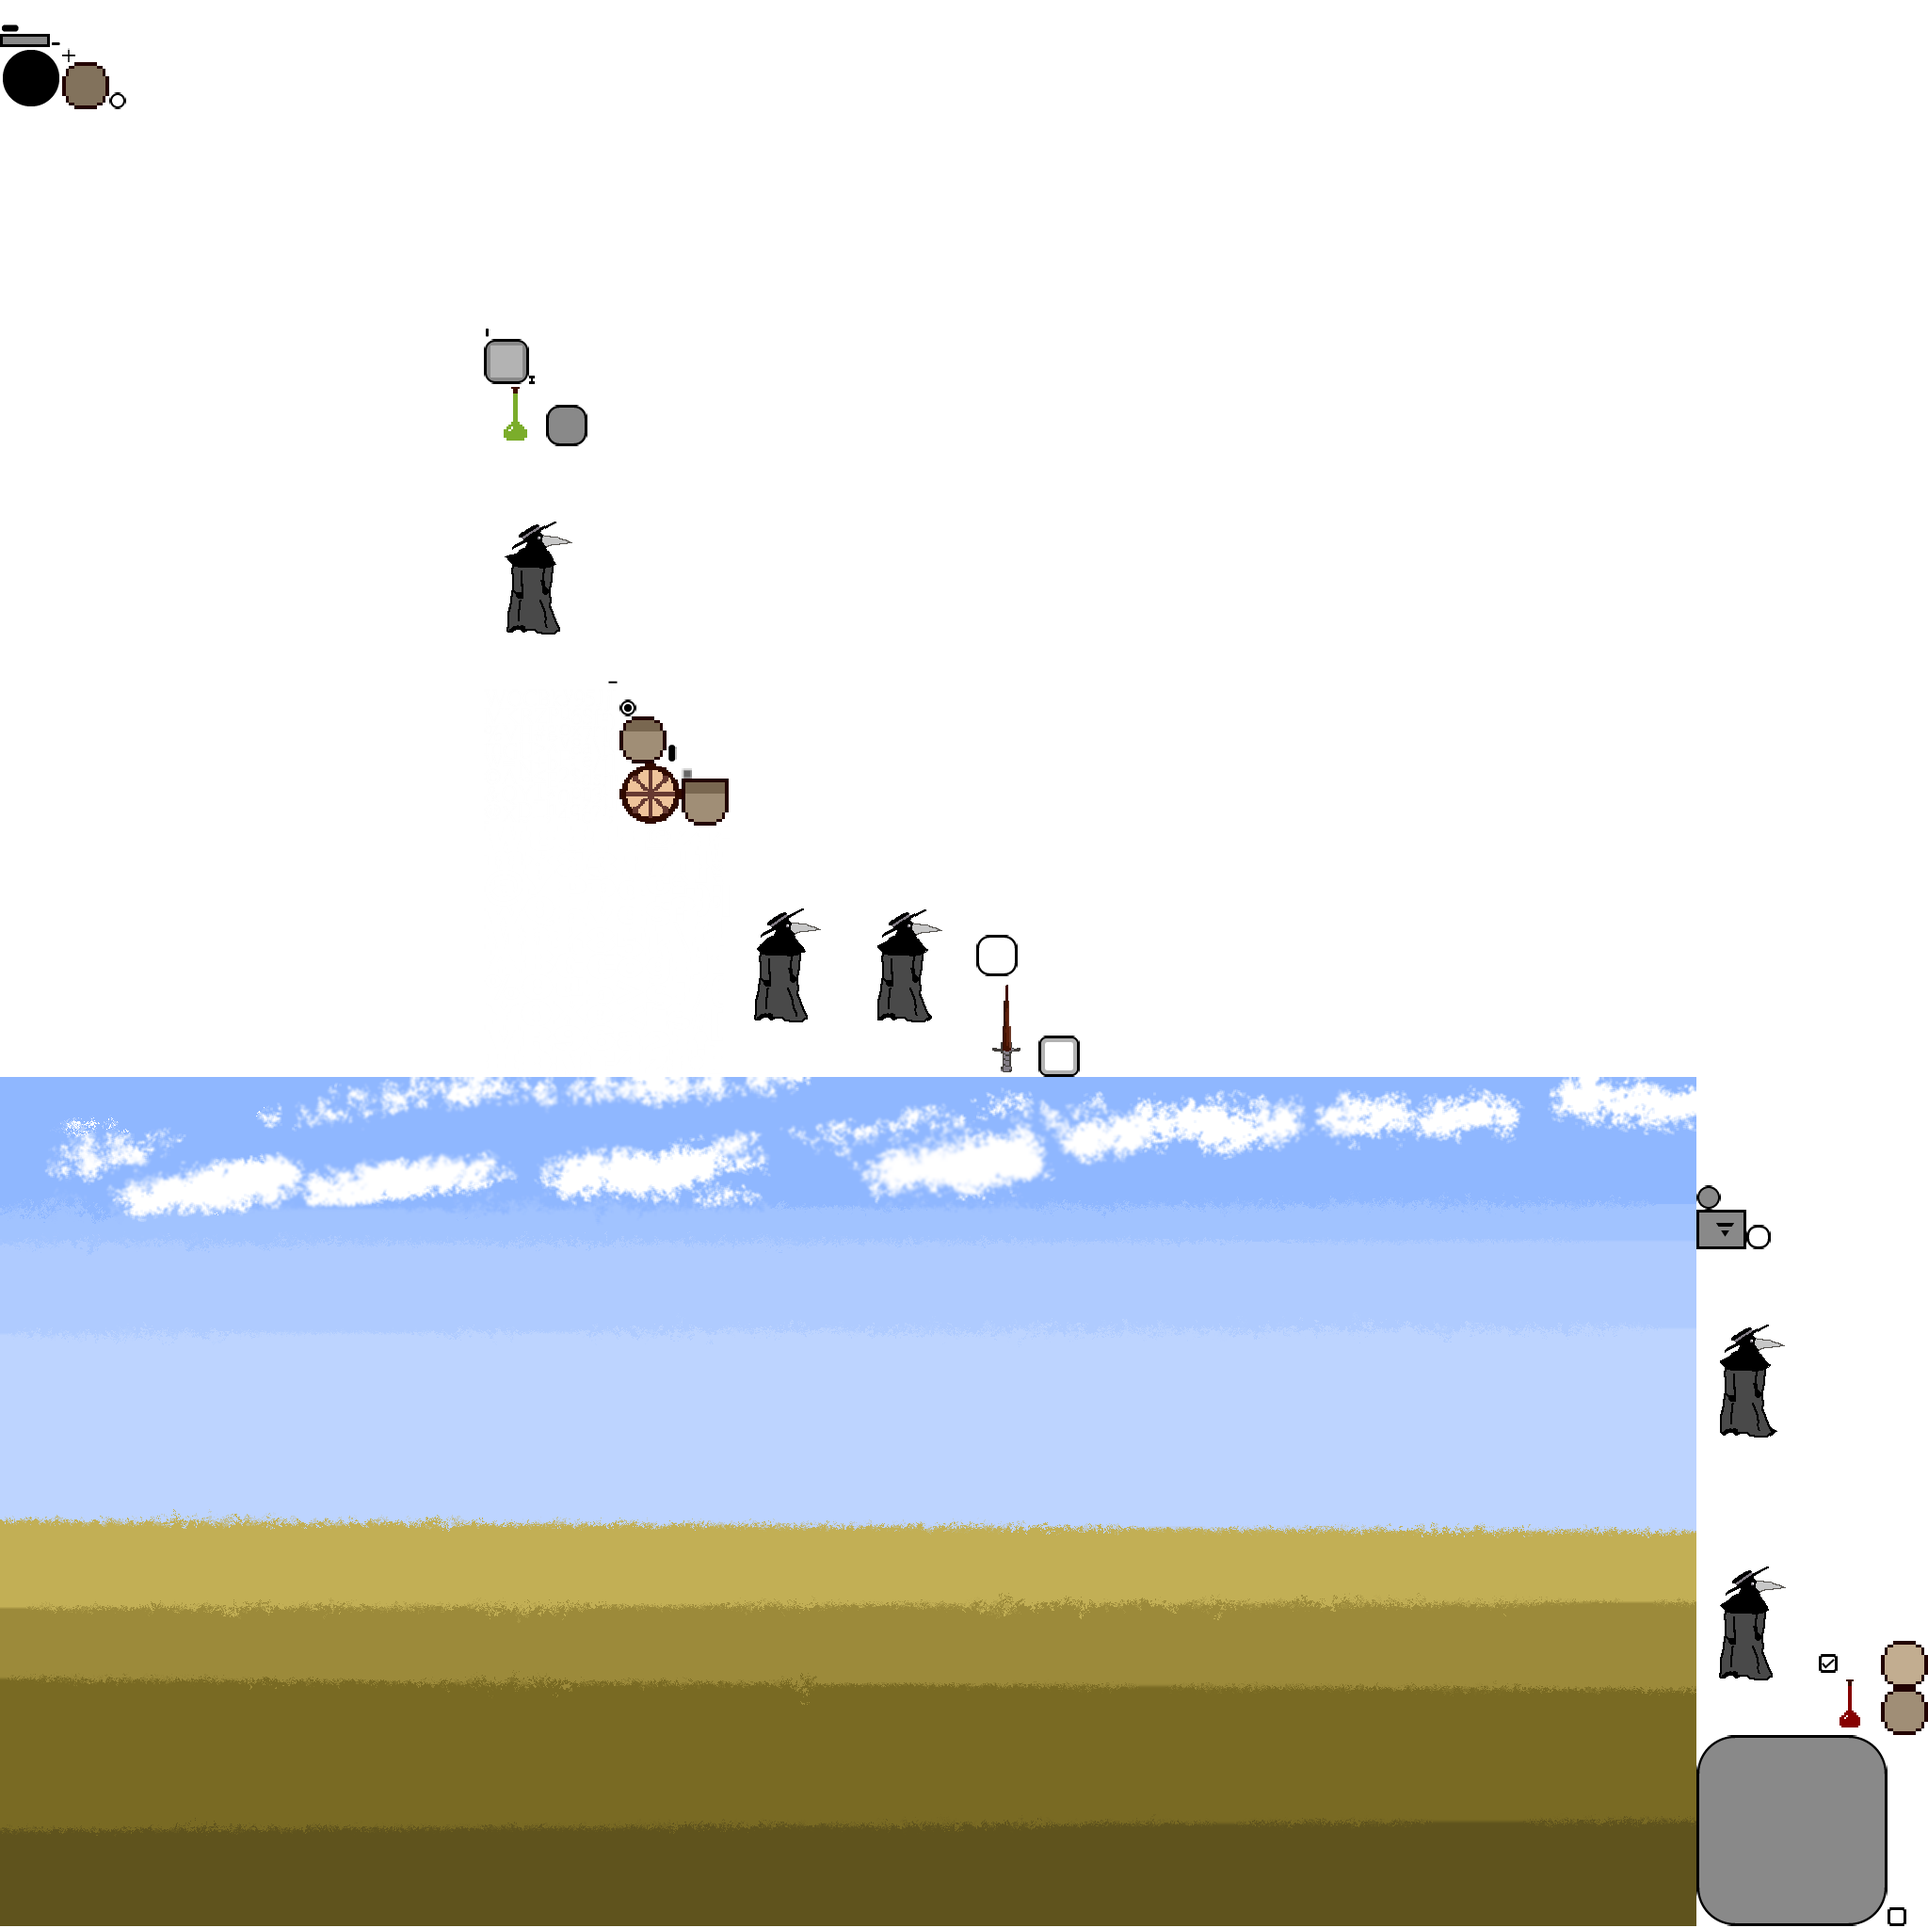
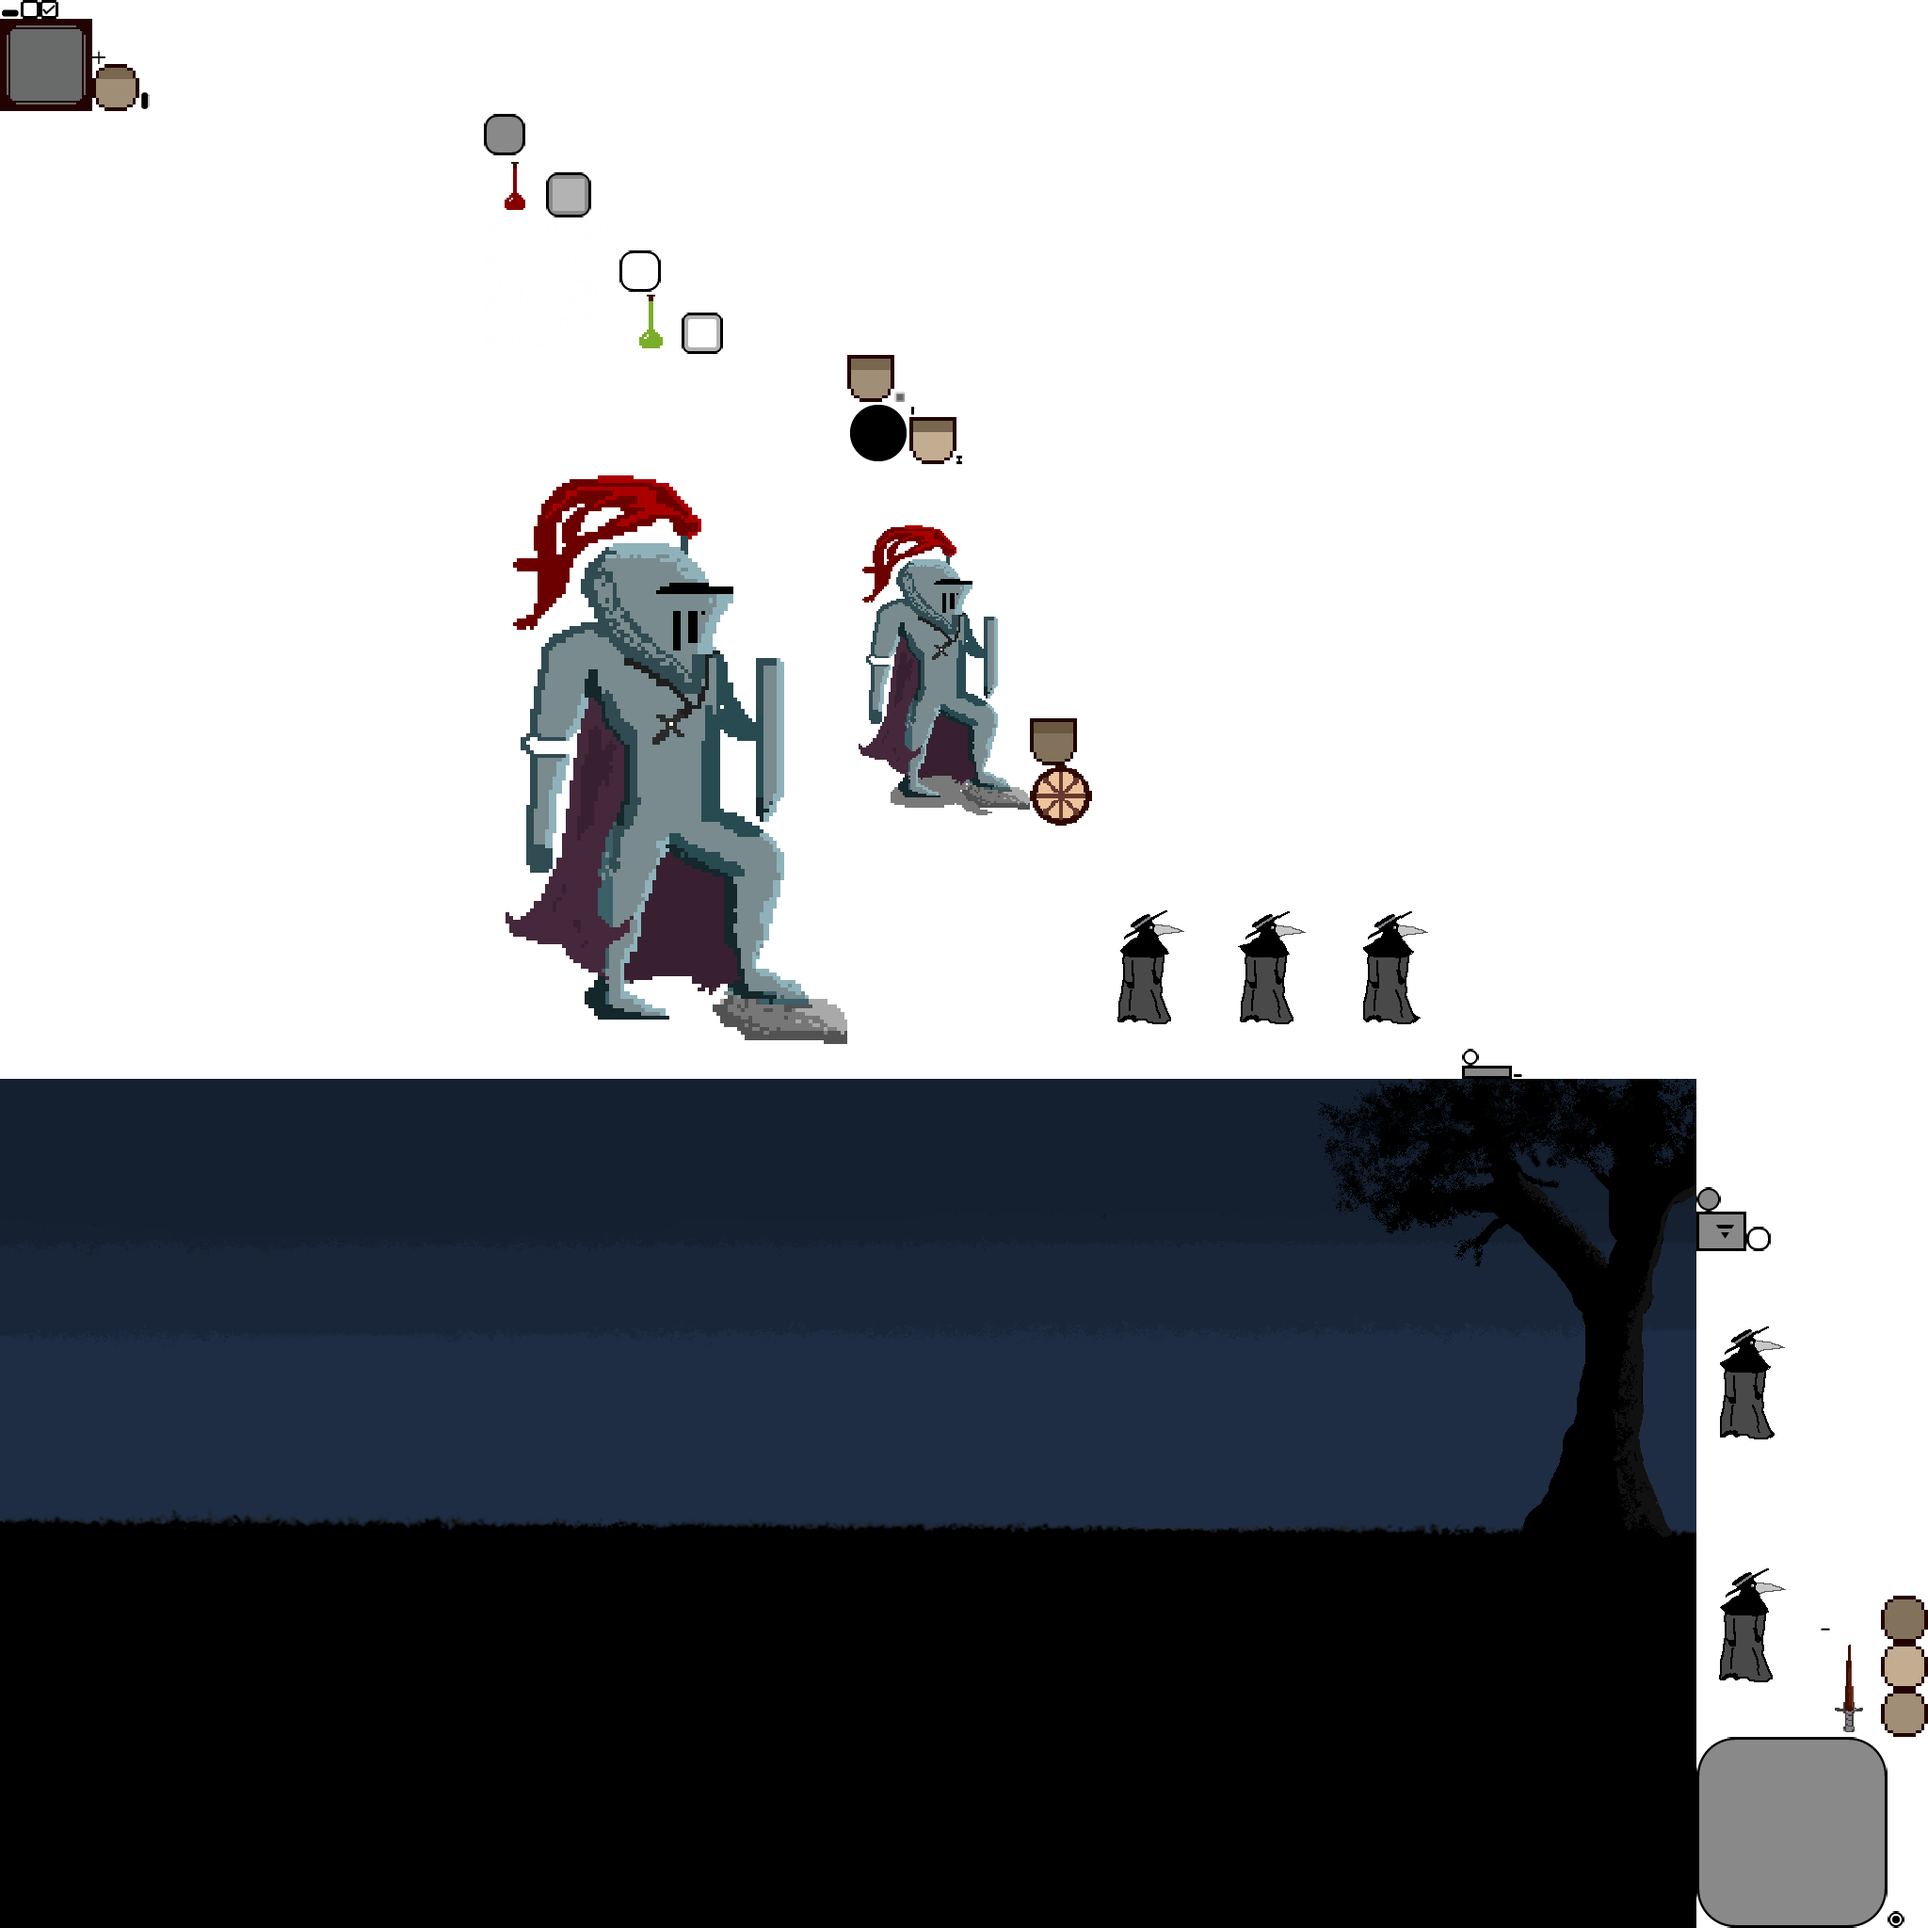
adding shit

diff --git a/core/src/com/mygdx/game/screens/NewRunScreen.java b/core/src/com/mygdx/game/screens/NewRunScreen.java
@@ -6,24 +6,26 @@ import com.badlogic.gdx.graphics.g2d.BitmapFont;
 import com.badlogic.gdx.scenes.scene2d.InputEvent;
 import com.badlogic.gdx.scenes.scene2d.Stage;
 import com.badlogic.gdx.scenes.scene2d.Touchable;
-import com.badlogic.gdx.scenes.scene2d.ui.Label;
-import com.badlogic.gdx.scenes.scene2d.ui.Skin;
-import com.badlogic.gdx.scenes.scene2d.ui.Table;
-import com.badlogic.gdx.scenes.scene2d.ui.TextButton;
+import com.badlogic.gdx.scenes.scene2d.ui.*;
 import com.badlogic.gdx.scenes.scene2d.utils.ClickListener;
+import com.badlogic.gdx.scenes.scene2d.utils.TextureRegionDrawable;
 import com.badlogic.gdx.utils.Align;
 import com.badlogic.gdx.utils.viewport.ScreenViewport;
 import com.mygdx.game.Assets;
 import com.mygdx.game.OverthrowScreenAdapter;
+import com.mygdx.game.screens.encounterscreens.CharacterSplash;
 import com.mygdx.game.state.Character;
 import com.mygdx.game.state.NewGameGenerator;
 
 import java.util.stream.Stream;
 
 public class NewRunScreen extends OverthrowScreenAdapter {
+
     @Override
     public void show() {
+        TextureRegionDrawable trd = new TextureRegionDrawable(Assets.skin().getRegion("splash"));
         Table table = new Table();
+        table.setBackground(trd);
         table.bottom().left();
         table.padLeft(70);
         table.padBottom(70);
@@ -50,10 +52,12 @@ public class NewRunScreen extends OverthrowScreenAdapter {
             @Override
             public void clicked(InputEvent event, float x, float y) {
                 System.out.println("Knight has been selected.");
-                NewGameGenerator.generateNewGame(Character.CharacterType.KNIGHT);
-                ((Game) Gdx.app.getApplicationListener()).setScreen(
-                        new GameStateScreen( )
-                );
+               CharacterSplash splash = new CharacterSplash(Character.CharacterType.KNIGHT);
+                stage.addActor(splash);
+                stage.addActor(proceedTable());
+
+               // NewGameGenerator.generateNewGame(Character.CharacterType.KNIGHT);
+                //((Game) Gdx.app.getApplicationListener()).setScreen(new GameStateScreen());
             }
         });
         addButton(characters, "Inventor",new ClickListener(){
@@ -77,7 +81,18 @@ public class NewRunScreen extends OverthrowScreenAdapter {
             }
         });
         addBackToMainMenu(characters);
+    }
 
+    private Table proceedTable(){
+        Table proceedTable = new Table();
+        proceedTable.bottom().right();
+        proceedTable.padRight(70);
+        proceedTable.padBottom(70);
+        proceedTable.setFillParent(true);
+        ProceedButton button = new ProceedButton();
+        button.getLabel().setAlignment(Align.left);
+        proceedTable.add(button);
+        return proceedTable;
     }
 
     private void addBackToMainMenu(Table table){

diff --git a/core/src/com/mygdx/game/screens/encounterscreens/InGameEncounterScreen.java b/core/src/com/mygdx/game/screens/encounterscreens/InGameEncounterScreen.java
@@ -42,7 +42,6 @@ public abstract class InGameEncounterScreen extends OverthrowScreenAdapter {
         entireScreen.setFillParent(true);
         populateTopBar(entireScreen);
         populateTeamAndEncounter(entireScreen);
-      //  populateGearAndInventory(entireScreen);
         stage.addActor(entireScreen);
 
 
@@ -116,12 +115,13 @@ public abstract class InGameEncounterScreen extends OverthrowScreenAdapter {
         Table characterPanel = new Table(Assets.skin());
         characterPanel.add(new Label(character.name() + "        hp: " + character.hp(), Assets.skin())).expandX();
         characterPanel.row();
-        characterPanel.add(new Image(Assets.skin().getRegion("plague_doctor1"))).expand();
+        characterPanel.add(new Image(Assets.skin().getRegion(imageFrom(character.characterType())))).expand();
         characterPanel.addListener(new HoverClickListener(stage, new HoverBox()));
         characterPanel.row();
         Table abilityPanel = new Table();
         abilityPanel.defaults().space(10F);
-        abilityPanel.add(new TextButton("Gear", Assets.skin())).expandX();
+       // abilityPanel.add(new TextButton("Gear", Assets.skin())).expandX();
+        abilityPanel.add(new AbilityPortraitImageButton());
         abilityPanel.add(new TextButton("AB1", Assets.skin())).expandX();
         abilityPanel.add(new TextButton("AB2", Assets.skin())).expandX();
         abilityPanel.add(new TextButton("ULT", Assets.skin())).expandX();
@@ -134,6 +134,16 @@ public abstract class InGameEncounterScreen extends OverthrowScreenAdapter {
         characterPanel.add(weaponAbilityPanel).padBottom(10).expand();
         characterPanel.defaults().expandX();
         return characterPanel;
+    }
+    
+    private String imageFrom(Character.CharacterType characterType){
+        switch(characterType){
+            case PLAGUE_DOCTOR -> { return "plauge_doctor1";}
+            case LEPER -> { return "plauge_doctor1";}
+            case INVENTOR -> { return "plauge_doctor1";}
+            case KNIGHT -> { return "knight";}
+            default -> throw new IllegalStateException("Unexpected value: " + characterType);
+        }
     }
 
     private Table emptyCharacterPanel(){

diff --git a/core/src/com/mygdx/game/character/knight/KnightGenerator.java b/core/src/com/mygdx/game/character/knight/KnightGenerator.java
@@ -1,0 +1,30 @@
+package com.mygdx.game.character.knight;
+
+import com.mygdx.game.character.abilities.Ability;
+import com.mygdx.game.character.gear.EquippedGear;
+import com.mygdx.game.character.plaguedoctor.Bloodlet;
+import com.mygdx.game.character.plaguedoctor.Miasma;
+import com.mygdx.game.character.plaguedoctor.TossConcoction;
+import com.mygdx.game.state.Character;
+
+import java.util.ArrayList;
+
+public class KnightGenerator {
+    private static final int STARTING_HP = 100;
+    private static final Ability STARTING_BASIC_ABILITY_1 = new TossConcoction();
+    private static final Ability STARTING_BASIC_ABILITY_2 = new Bloodlet();
+    private static final Ability STARTING_ULT_ABILITY = new Miasma();
+
+    public static Character generateStartingPlagueDoctor(){
+        return new Character(
+                "Knight",
+                Character.CharacterType.KNIGHT,
+                STARTING_HP,
+                new EquippedGear(),
+                STARTING_BASIC_ABILITY_1,
+                STARTING_BASIC_ABILITY_2,
+                STARTING_ULT_ABILITY,
+                new ArrayList<>()
+        );
+    }
+}

diff --git a/core/src/com/mygdx/game/state/Character.java b/core/src/com/mygdx/game/state/Character.java
@@ -3,6 +3,7 @@ package com.mygdx.game.state;
 import com.mygdx.game.character.abilities.Ability;
 import com.mygdx.game.character.buff.Buff;
 import com.mygdx.game.character.gear.EquippedGear;
+import com.mygdx.game.character.knight.KnightGenerator;
 import com.mygdx.game.character.plaguedoctor.PlagueDoctorGenerator;
 
 import java.util.List;
@@ -26,7 +27,7 @@ public record Character(
             case PLAGUE_DOCTOR -> { return PlagueDoctorGenerator.generateStartingPlagueDoctor(); }
             case LEPER -> {return PlagueDoctorGenerator.generateStartingPlagueDoctor();}
             case INVENTOR -> {return PlagueDoctorGenerator.generateStartingPlagueDoctor();}
-            case KNIGHT -> {return PlagueDoctorGenerator.generateStartingPlagueDoctor();}
+            case KNIGHT -> {return KnightGenerator.generateStartingPlagueDoctor();}
             default -> throw new IllegalStateException("Unexpected value: " + characterType);
         }
     }

diff --git a/core/src/com/mygdx/game/screens/encounterscreens/CharacterSplash.java b/core/src/com/mygdx/game/screens/encounterscreens/CharacterSplash.java
@@ -1,0 +1,28 @@
+package com.mygdx.game.screens.encounterscreens;
+
+import com.badlogic.gdx.Gdx;
+import com.badlogic.gdx.scenes.scene2d.Actor;
+import com.badlogic.gdx.scenes.scene2d.ui.Image;
+import com.badlogic.gdx.scenes.scene2d.ui.Skin;
+import com.badlogic.gdx.scenes.scene2d.ui.Table;
+import com.badlogic.gdx.scenes.scene2d.ui.Window;
+import com.badlogic.gdx.scenes.scene2d.utils.TextureRegionDrawable;
+import com.mygdx.game.Assets;
+import com.mygdx.game.state.Character.CharacterType;
+
+public class CharacterSplash extends Image {
+
+    public CharacterSplash(CharacterType characterType){
+        super(Assets.skin(),characterType.toString().toLowerCase() + "-splash");
+        this.setPosition(getXVal(),getYVal());
+    }
+
+    private float getXVal(){
+        return  (Gdx.graphics.getWidth()/2-(this.getWidth()/5));
+    }
+
+    private float getYVal(){
+       return  Gdx.graphics.getHeight()*1/2-this.getHeight()/2;
+    }
+
+}

diff --git a/core/src/com/mygdx/game/screens/ProceedButton.java b/core/src/com/mygdx/game/screens/ProceedButton.java
@@ -1,0 +1,36 @@
+package com.mygdx.game.screens;
+
+import com.badlogic.gdx.Gdx;
+import com.badlogic.gdx.scenes.scene2d.ui.Skin;
+import com.badlogic.gdx.scenes.scene2d.ui.TextButton;
+import com.mygdx.game.Assets;
+
+public class ProceedButton extends TextButton {
+
+    public ProceedButton(){
+        super("Proceed", Assets.skin());
+       // this.setPosition(Gdx.graphics.getWidth()-this.getWidth() + 10, 50);
+        setDefaultPad();
+    }
+
+    public ProceedButton(String text, Skin skin) {
+        super(text, skin);
+    }
+
+
+
+    public ProceedButton(String text, Skin skin, String styleName) {
+        super(text, skin, styleName);
+    }
+
+
+
+    public ProceedButton(String text, TextButtonStyle style) {
+        super(text, style);
+    }
+
+    private void setDefaultPad(){
+        this.padLeft(20);
+        this.padRight(30);
+    }
+}

diff --git a/core/src/com/mygdx/game/screens/AbilityPortraitImageButton.java b/core/src/com/mygdx/game/screens/AbilityPortraitImageButton.java
@@ -1,0 +1,20 @@
+package com.mygdx.game.screens;
+
+import com.badlogic.gdx.scenes.scene2d.ui.ImageButton;
+import com.badlogic.gdx.scenes.scene2d.utils.Drawable;
+import com.badlogic.gdx.scenes.scene2d.utils.TextureRegionDrawable;
+import com.mygdx.game.Assets;
+
+import java.awt.*;
+
+public class AbilityPortraitImageButton extends ImageButton {
+
+    public AbilityPortraitImageButton(){
+        super(Assets.skin());
+        TextureRegionDrawable background = new TextureRegionDrawable(Assets.skin().getRegion("ability-portrait"));
+        Drawable up = Assets.skin().getDrawable("MINOR_HEALTH_POT");
+        ImageButtonStyle style = this.getStyle();
+        this.setBackground(background);
+        style.up = up;
+    }
+}
